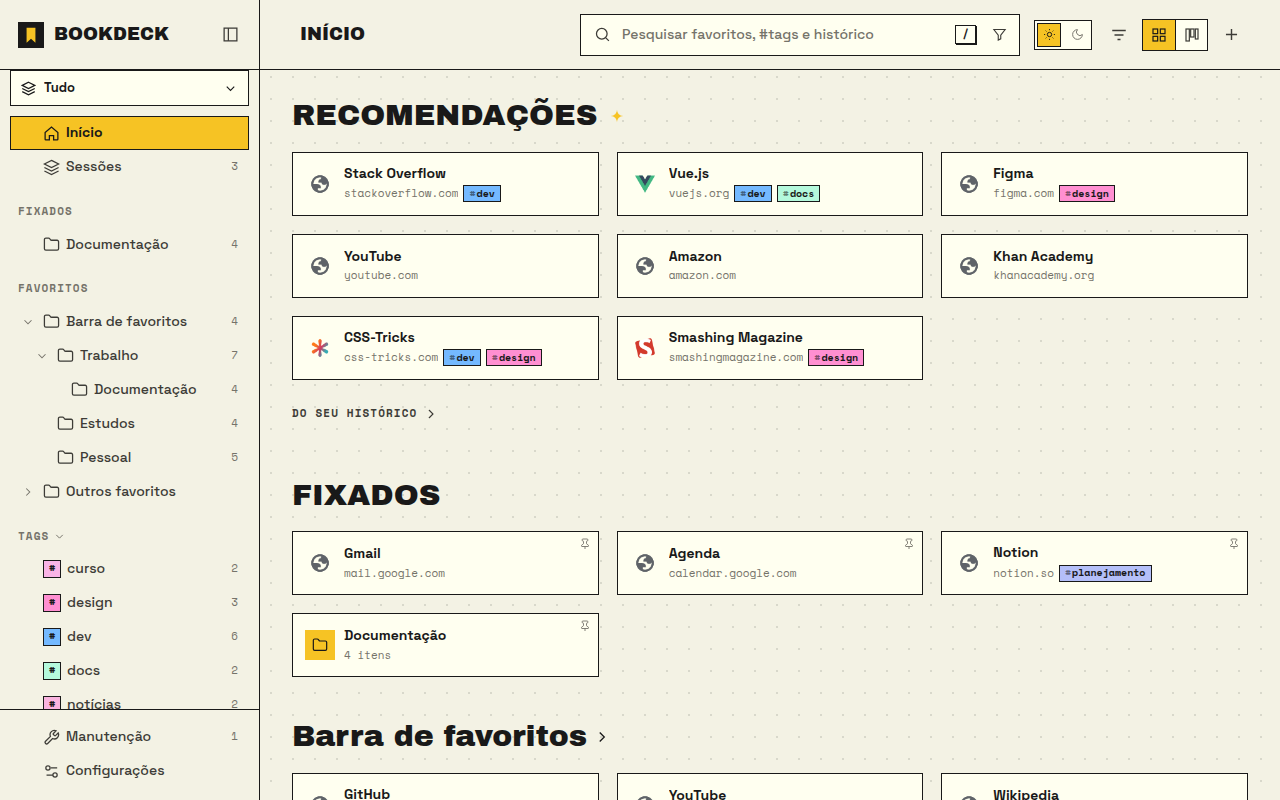
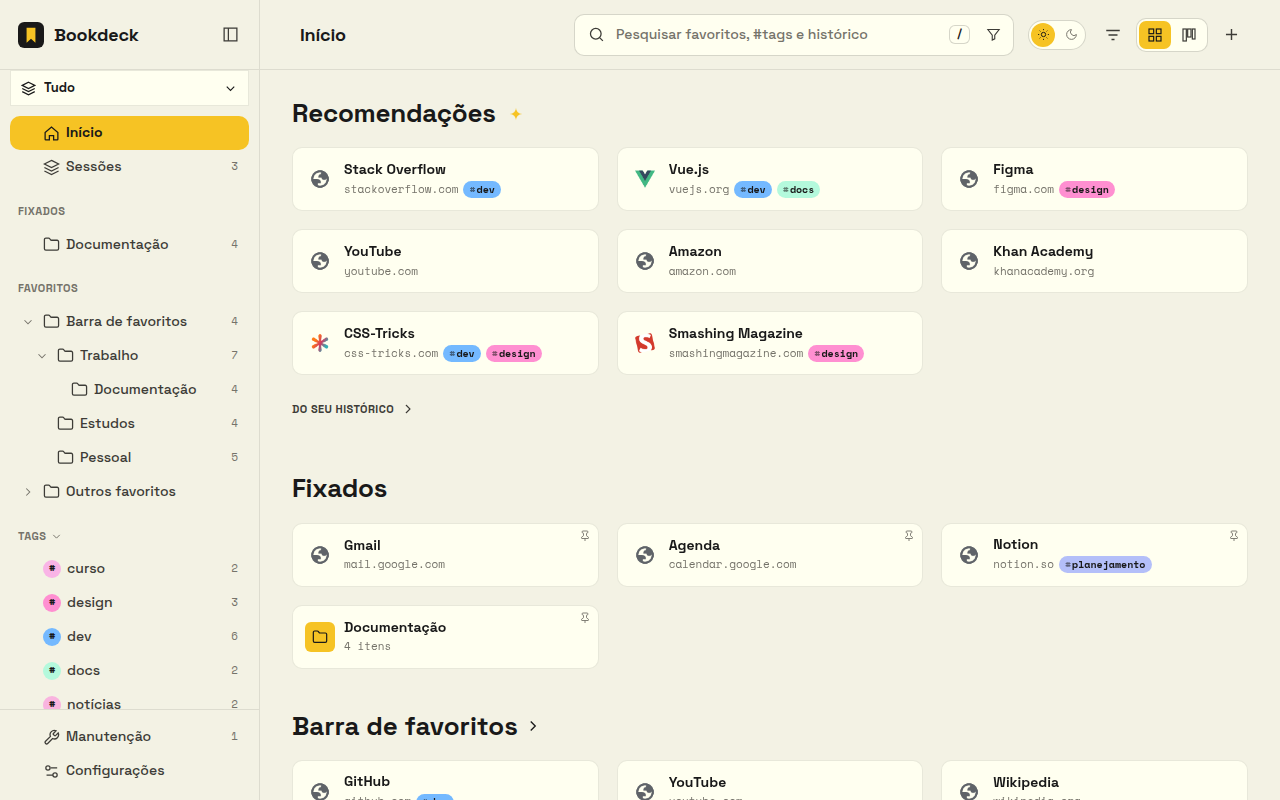
Describe Bookdeck Pro in the privacy policy and store listing
The policy explains the ExtensionPay/Stripe license check and that
bookmarks and browsing data still never leave the browser. The listing
adds the US$ 12 one-time Pro plan and its data disclosures, and the store
screenshots now use the free modern look, with Pro on for paid screens.

Claude-Session: https://claude.ai/code/session_01LuE7BvKGd75Ws2D3ZHVvKB

diff --git a/docs/privacy-policy.html b/docs/privacy-policy.html
@@ -20,7 +20,7 @@
 <main>
 <h1>Bookdeck – Privacy Policy</h1>
 <p><em>Last updated: November 12, 2026</em></p>
-<p><strong>Short version: Bookdeck does not collect, send or sell any of your data. Everything stays in your browser.</strong></p>
+<p><strong>Short version: Bookdeck does not collect, send or sell your bookmarks, history or any other browsing data. They stay in your browser. The only thing Bookdeck checks online is whether you have a Bookdeck Pro license.</strong></p>
 <h2>What Bookdeck accesses</h2>
 <p>To work, the extension reads and changes data <strong>inside your browser only</strong>:</p>
 <ul>
@@ -30,17 +30,25 @@
 <li><strong>Web search</strong>: when you choose “Search the web” in the search box, the text you typed is sent to your browser&#x27;s default search engine, just like a regular search. Bookdeck doesn&#x27;t send it anywhere else.</li>
 <li><strong>Website access (optional)</strong>: only if you start a broken-link check and allow it. Bookdeck then makes one request to each bookmarked address to see whether it still works. Requests are sent without cookies, and only the HTTP status and final address are read. Nothing is sent to anyone other than the sites you bookmarked.</li>
 </ul>
+<h2>Bookdeck Pro (paid plan)</h2>
+<p>Bookdeck is free, with an optional one-time payment (Bookdeck Pro) that unlocks extra features. Payments and licenses are handled by <strong>ExtensionPay</strong> (extensionpay.com), which processes payments through <strong>Stripe</strong>.</p>
+<ul>
+<li><strong>When you pay</strong>, you enter your email and payment details on ExtensionPay&#x27;s and Stripe&#x27;s own pages. Bookdeck never sees or stores your card details.</li>
+<li><strong>To know whether Pro is unlocked</strong>, the extension contacts extensionpay.com using a random identifier created for your installation. The reply only says whether this identifier has paid. If you buy Pro, ExtensionPay links this identifier to the email you paid with, so you can restore Pro on another computer.</li>
+<li><strong>Nothing else is sent</strong>: no bookmarks, history, tags, sessions, settings or pages you visit.</li>
+</ul>
+<p>ExtensionPay&#x27;s privacy policy: <a href="https://extensionpay.com/privacy">https://extensionpay.com/privacy</a>. Stripe&#x27;s: <a href="https://stripe.com/privacy">https://stripe.com/privacy</a>.</p>
 <h2>Where your data is stored</h2>
-<p>Settings, tags, pinned and hidden items, workspaces, sessions and last-visit dates are saved in the browser&#x27;s local extension storage on your computer. Bookdeck has no server and no account. Your data is not synced by Bookdeck to any cloud.</p>
+<p>Settings, tags, pinned and hidden items, workspaces, sessions, last-visit dates and your Pro license status are saved in the browser&#x27;s local extension storage on your computer. Bookdeck has no server of its own. Your bookmarks and settings are not synced by Bookdeck to any cloud.</p>
 <p>When you export a backup, a <code>.json</code> file is saved where you choose. It contains your bookmarks, tags, sessions, settings and last-visit dates; keep it somewhere safe.</p>
 <h2>What Bookdeck does not do</h2>
 <ul>
-<li>No analytics, tracking, advertising or third-party scripts.</li>
-<li>No data is sold, shared or transferred to third parties.</li>
+<li>No analytics, tracking or advertising.</li>
+<li>No data is sold. Nothing is shared with third parties except what the payment provider needs to process a Pro purchase and check the license, as described above.</li>
 <li>No remote code is loaded.</li>
 </ul>
 <h2>Removing your data</h2>
-<p>Uninstalling the extension deletes everything it stored. Your bookmarks themselves belong to the browser and are not removed.</p>
+<p>Uninstalling the extension deletes everything it stored on your computer. Your bookmarks themselves belong to the browser and are not removed. If you bought Pro, you can ask ExtensionPay to delete your purchase record.</p>
 <h2>Changes</h2>
 <p>If this policy changes, the new version will be published at this same address with a new date.</p>
 <h2>Contact</h2>
@@ -48,7 +56,7 @@
 <hr>
 <h1>Bookdeck – Política de Privacidade</h1>
 <p><em>Atualizada em 12 de novembro de 2026</em></p>
-<p><strong>Resumo: o Bookdeck não coleta, não envia e não vende nenhum dado seu. Tudo fica no seu navegador.</strong></p>
+<p><strong>Resumo: o Bookdeck não coleta, não envia e não vende seus favoritos, seu histórico nem nenhum outro dado de navegação. Eles ficam no seu navegador. A única coisa que o Bookdeck consulta pela internet é se você tem uma licença do Bookdeck Pro.</strong></p>
 <h2>O que o Bookdeck acessa</h2>
 <p>Para funcionar, a extensão lê e altera dados <strong>somente dentro do seu navegador</strong>:</p>
 <ul>
@@ -58,17 +66,25 @@
 <li><strong>Pesquisa na web</strong>: quando você escolhe “Pesquisar na web” na caixa de busca, o texto digitado vai para o mecanismo de busca padrão do seu navegador, como numa busca normal. O Bookdeck não o envia para nenhum outro lugar.</li>
 <li><strong>Acesso a sites (opcional)</strong>: só se você iniciar uma verificação de links quebrados e permitir. O Bookdeck faz uma requisição a cada endereço salvo para ver se ainda funciona, sem enviar cookies, lendo apenas o código HTTP e o endereço final. Nada é enviado a ninguém além dos próprios sites que você salvou.</li>
 </ul>
+<h2>Bookdeck Pro (plano pago)</h2>
+<p>O Bookdeck é grátis, com um pagamento único opcional (Bookdeck Pro) que libera recursos extras. Pagamentos e licenças ficam a cargo do <strong>ExtensionPay</strong> (extensionpay.com), que processa os pagamentos pelo <strong>Stripe</strong>.</p>
+<ul>
+<li><strong>Ao pagar</strong>, você informa seu e-mail e os dados de pagamento nas páginas do próprio ExtensionPay e do Stripe. O Bookdeck nunca vê nem guarda os dados do seu cartão.</li>
+<li><strong>Para saber se o Pro está liberado</strong>, a extensão consulta o extensionpay.com usando um identificador aleatório criado para a sua instalação. A resposta diz apenas se esse identificador pagou. Se você comprar o Pro, o ExtensionPay associa esse identificador ao e-mail usado no pagamento, para você poder recuperar o Pro em outro computador.</li>
+<li><strong>Nada mais é enviado</strong>: nenhum favorito, histórico, tag, sessão, configuração ou página visitada.</li>
+</ul>
+<p>Política de privacidade do ExtensionPay: <a href="https://extensionpay.com/privacy">https://extensionpay.com/privacy</a>. Do Stripe: <a href="https://stripe.com/privacy">https://stripe.com/privacy</a>.</p>
 <h2>Onde seus dados ficam</h2>
-<p>Configurações, tags, fixados, ocultos, workspaces, sessões e datas de visita ficam no armazenamento local da extensão, no seu computador. O Bookdeck não tem servidor nem conta e não sincroniza seus dados com nenhuma nuvem.</p>
+<p>Configurações, tags, fixados, ocultos, workspaces, sessões, datas de visita e o status da sua licença Pro ficam no armazenamento local da extensão, no seu computador. O Bookdeck não tem servidor próprio e não sincroniza seus favoritos nem suas configurações com nenhuma nuvem.</p>
 <p>Ao exportar um backup, um arquivo <code>.json</code> é salvo onde você escolher. Ele contém favoritos, tags, sessões, configurações e datas de visita; guarde-o em lugar seguro.</p>
 <h2>O que o Bookdeck não faz</h2>
 <ul>
-<li>Nada de estatísticas de uso, rastreamento, anúncios ou scripts de terceiros.</li>
-<li>Nenhum dado é vendido, compartilhado ou transferido a terceiros.</li>
+<li>Nada de estatísticas de uso, rastreamento ou anúncios.</li>
+<li>Nenhum dado é vendido. Nada é compartilhado com terceiros além do que o processador de pagamento precisa para concluir uma compra do Pro e verificar a licença, como descrito acima.</li>
 <li>Nenhum código é carregado de fora.</li>
 </ul>
 <h2>Como apagar seus dados</h2>
-<p>Desinstalar a extensão apaga tudo o que ela guardou. Seus favoritos pertencem ao navegador e não são removidos.</p>
+<p>Desinstalar a extensão apaga tudo o que ela guardou no seu computador. Seus favoritos pertencem ao navegador e não são removidos. Se você comprou o Pro, pode pedir ao ExtensionPay que apague o registro da compra.</p>
 <h2>Mudanças</h2>
 <p>Se esta política mudar, a nova versão será publicada neste mesmo endereço, com nova data.</p>
 <h2>Contato</h2>

diff --git a/scripts/store-assets.py b/scripts/store-assets.py
@@ -77,7 +77,7 @@ def setup(page, lang, ids):
             {'id': 'wlife', 'name': t['ws_life'], 'folders': [ids['personal'], ids['study']], 'accent': 'green', 'look': None}]
     meta = {'pinned': [ids['Gmail'], ids[t['cal']], ids['Notion'], ids['docs']], 'hidden': [], 'tags': tags, 'tagColors': colors,
             'workspaces': work, 'activeWs': None, 'seenVersion': '0.2.0', 'historyOpen': False, 'expanded': {'1': True, ids['work']: True}}
-    settings = {'lang': lang, 'theme': 'light', 'look': 'brutal', 'accent': 'yellow', 'style': 'card', 'layout': 'grid', 'width': 230}
+    settings = {'lang': lang, 'theme': 'light', 'look': 'modern', 'accent': 'yellow', 'style': 'card', 'layout': 'grid', 'width': 230}
     now = int(time.time() * 1000)
     g = lambda title, color: {'title': title, 'color': color}
     sessions = [
@@ -97,7 +97,9 @@ def setup(page, lang, ids):
             {'url': 'https://slack.com/', 'title': 'Slack'}, {'url': 'https://www.notion.so/', 'title': 'Notion'},
             {'url': 'https://trello.com/', 'title': 'Trello'}, {'url': 'https://calendar.google.com/', 'title': t['cal']}]},
     ]
-    page.evaluate("async (d) => { await chrome.storage.local.set(d) }", {'meta': meta, 'settings': settings, 'sessions': sessions})
+    # Pro on, so the paid screens (workspace looks, whole-library link check, cyberpunk) render without locks
+    license = {'pro': True, 'source': 'dev', 'since': now}
+    page.evaluate("async (d) => { await chrome.storage.local.set(d) }", {'meta': meta, 'settings': settings, 'sessions': sessions, 'license': license})
 
 def run_lang(p, lang):
     profile = os.path.join(TMP, 'profile-' + lang)

diff --git a/docs/store/listing.md b/docs/store/listing.md
@@ -13,11 +13,11 @@ also live in `public/_locales/*/messages.json` (max. 132 characters).
 **Nome:** Bookdeck
 
 **Descrição curta (132):**
-Nova guia para seus favoritos: tags, workspaces, sessões de abas, links quebrados e duplicados. Privado: nada sai do navegador.
+Nova guia para seus favoritos: tags, workspaces, sessões de abas, links quebrados e duplicados. Seus favoritos não saem do navegador.
 
 **Descrição detalhada:**
 
-Bookdeck transforma a nova guia num painel dos seus favoritos. Tudo o que você salvou fica à mão, organizado do seu jeito e sem nenhuma conta ou servidor.
+Bookdeck transforma a nova guia num painel dos seus favoritos. Tudo o que você salvou fica à mão, organizado do seu jeito, sem criar conta e sem servidor guardando seus favoritos.
 
 ★ ORGANIZE
 • Pastas em grade ou em colunas, em cartões, compacto ou só ícones
@@ -26,21 +26,29 @@ Bookdeck transforma a nova guia num painel dos seus favoritos. Tudo o que você 
 • Fixe favoritos e pastas, oculte o que não quer ver, arraste para reorganizar
 
 ★ WORKSPACES E SESSÕES
-• Workspaces: separe “Trabalho”, “Pessoal” e “Estudos”, cada um com suas pastas, cor e visual. Troque com Alt+1, Alt+2…
+• Workspaces: separe “Trabalho” e “Pessoal”, cada um com suas pastas. Troque com Alt+1, Alt+2…
 • Sessões: salve todas as abas de uma janela com um nome, inclusive grupos de abas e abas fixadas, e reabra tudo depois. Pode fechar as abas ao salvar para liberar memória.
 
 ★ MANUTENÇÃO
-• Links quebrados: encontra páginas que sumiram, sites fora do ar e endereços que mudaram, com atualização em um clique
+• Links quebrados: encontra páginas que sumiram, sites fora do ar e endereços que mudaram, pasta por pasta
 • Duplicados: acha a mesma página salva várias vezes, mesmo com endereços um pouco diferentes
-• Parados: mostra o que você não abre há 3, 6 ou 12 meses
 • Seleção em massa: mova, marque, oculte ou exclua vários favoritos de uma vez, sempre com “Desfazer”
 
+★ BOOKDECK PRO: US$ 12, PAGAMENTO ÚNICO
+Tudo acima é grátis, sem prazo. O Pro libera, para sempre:
+• Workspaces e sessões ilimitados (o grátis tem 2 workspaces e 3 sessões)
+• Cor e visual próprios para cada workspace
+• Visuais brutal e cyberpunk
+• Busca avançada por tags: todas, qualquer, nenhuma ou somente estas
+• Verificação de links da biblioteca inteira e correção em lote de links e duplicados
+• Favoritos parados: o que você não abre há 3, 6 ou 12 meses
+
 ★ PRIVADO DE VERDADE
-• Sem conta, sem servidor, sem anúncios, sem rastreamento
-• Seus dados ficam no armazenamento local do navegador
+• Sem conta, sem anúncios, sem rastreamento
+• Seus favoritos, tags e sessões ficam no armazenamento local do navegador. Só o status da licença Pro é consultado
 • Backup em arquivo .json: leve favoritos, tags, sessões e configurações para outro computador
 
-Visuais brutal, moderno e cyberpunk, tema claro e escuro, cinco cores de destaque. Funciona no Chrome, Brave e Edge.
+Visual moderno, tema claro e escuro, cinco cores de destaque. Funciona no Chrome, Brave e Edge.
 
 ---
 
@@ -49,11 +57,11 @@ Visuais brutal, moderno e cyberpunk, tema claro e escuro, cinco cores de destaqu
 **Name:** Bookdeck
 
 **Short description (132):**
-A new tab for your bookmarks: tags, workspaces, tab sessions, broken links and duplicates. Private: nothing leaves your browser.
+A new tab for your bookmarks: tags, workspaces, tab sessions, broken links and duplicates. Your bookmarks never leave your browser.
 
 **Detailed description:**
 
-Bookdeck turns the new tab into a dashboard for your bookmarks. Everything you saved is at hand, organized your way, with no account and no server.
+Bookdeck turns the new tab into a dashboard for your bookmarks. Everything you saved is at hand, organized your way, with no sign-up and no server holding your bookmarks.
 
 ★ ORGANIZE
 • Folders in a grid or in columns, as cards, compact rows or icons only
@@ -62,21 +70,29 @@ Bookdeck turns the new tab into a dashboard for your bookmarks. Everything you s
 • Pin bookmarks and folders, hide what you don't want to see, drag to rearrange
 
 ★ WORKSPACES AND SESSIONS
-• Workspaces: split “Work”, “Personal” and “Study”, each with its own folders, color and look. Switch with Alt+1, Alt+2…
+• Workspaces: split “Work” and “Personal”, each with its own folders. Switch with Alt+1, Alt+2…
 • Sessions: save every tab of a window under a name, including tab groups and pinned tabs, and reopen them all later. Optionally close the tabs when saving to free memory.
 
 ★ MAINTENANCE
-• Broken links: finds pages that are gone, sites that are down and addresses that moved, with one-click updates
+• Broken links: finds pages that are gone, sites that are down and addresses that moved, folder by folder
 • Duplicates: finds the same page saved more than once, even with slightly different addresses
-• Unused: shows what you haven't opened in 3, 6 or 12 months
 • Bulk selection: move, tag, hide or delete many bookmarks at once, always with Undo
 
+★ BOOKDECK PRO: US$ 12, ONE-TIME PAYMENT
+Everything above is free, with no time limit. Pro unlocks, for good:
+• Unlimited workspaces and sessions (the free plan has 2 workspaces and 3 sessions)
+• A color and look of its own for each workspace
+• Brutal and cyberpunk looks
+• Advanced tag search: all, any, none or only these
+• Link checks across your whole library, and bulk fixes for links and duplicates
+• Unused bookmarks: what you haven't opened in 3, 6 or 12 months
+
 ★ TRULY PRIVATE
-• No account, no server, no ads, no tracking
-• Your data stays in the browser's local storage
+• No sign-up, no ads, no tracking
+• Your bookmarks, tags and sessions stay in the browser's local storage. Only the Pro license status is checked
 • Backup to a .json file: take bookmarks, tags, sessions and settings to another computer
 
-Brutal, modern and cyberpunk looks, light and dark themes, five accent colors. Works in Chrome, Brave and Edge.
+Modern look, light and dark themes, five accent colors. Works in Chrome, Brave and Edge.
 
 ---
 
@@ -89,17 +105,25 @@ Brutal, modern and cyberpunk looks, light and dark themes, five accent colors. W
 | Permission | Why it is needed |
 |---|---|
 | `bookmarks` | Show, create, edit, move and delete the user's bookmarks: the core of the extension. |
-| `storage` | Save settings, tags, pinned/hidden items, workspaces, sessions and last-visit dates locally. |
+| `storage` | Save settings, tags, pinned/hidden items, workspaces, sessions, last-visit dates and the Pro license status locally. |
 | `history` | Suggest frequently used bookmarks and pages, search history from the search box, and tell which bookmarks haven't been opened in months. Read locally only. |
 | `tabs` | Open bookmarks in new tabs/windows, read the current tab in the popup to save it, and save/restore the tabs of a window as a session. |
 | `tabGroups` | Keep tab group names and colors when saving and reopening a session. |
 | `favicon` | Show each bookmark's site icon from the browser's own favicon cache. |
 | `search` | “Search the web” from the search box using the user's default search engine. |
 | Optional host access (`<all_urls>`) | Requested only when the user starts a broken-link check: one request per bookmarked URL to read its HTTP status. Without it nothing is fetched. |
+| Host access `https://extensionpay.com/*` | Bookdeck Pro: open the payment page and check whether the user has paid. Only a random install identifier is sent; no browsing data. _(Added to the manifest together with the ExtensionPay integration.)_ |
 
 **Remote code:** No. All code is bundled in the package.
 
-**Data usage:** The extension does not collect or transmit any user data. Check none of the data-type boxes; certify that data is not sold, not used for unrelated purposes and not used for creditworthiness.
+**Data usage:** Bookmarks, history, tabs and settings are never collected or transmitted. The only data that leaves the browser belongs to a Bookdeck Pro purchase, handled by ExtensionPay/Stripe. Check:
+
+- **Personally identifiable information**: the email the user enters when buying Pro (kept by ExtensionPay to restore the license).
+- **Financial and payment information**: card details entered on the Stripe checkout page (Bookdeck never receives them).
+
+Leave every other box unchecked; certify that data is not sold, not used for unrelated purposes and not used for creditworthiness.
+
+**Pricing / in-app purchases:** the extension is free to install, with an optional one-time in-app purchase (Bookdeck Pro, US$ 12). Mention it in the description, as above.
 
 **Privacy policy URL:** host `docs/privacy-policy.html` (standalone page) anywhere public and paste its URL.
 

diff --git a/docs/privacy-policy.md b/docs/privacy-policy.md
@@ -2,7 +2,7 @@
 
 _Last updated: November 12, 2026_
 
-**Short version: Bookdeck does not collect, send or sell any of your data. Everything stays in your browser.**
+**Short version: Bookdeck does not collect, send or sell your bookmarks, history or any other browsing data. They stay in your browser. The only thing Bookdeck checks online is whether you have a Bookdeck Pro license.**
 
 ## What Bookdeck accesses
 
@@ -14,21 +14,31 @@ To work, the extension reads and changes data **inside your browser only**:
 - **Web search**: when you choose “Search the web” in the search box, the text you typed is sent to your browser's default search engine, just like a regular search. Bookdeck doesn't send it anywhere else.
 - **Website access (optional)**: only if you start a broken-link check and allow it. Bookdeck then makes one request to each bookmarked address to see whether it still works. Requests are sent without cookies, and only the HTTP status and final address are read. Nothing is sent to anyone other than the sites you bookmarked.
 
+## Bookdeck Pro (paid plan)
+
+Bookdeck is free, with an optional one-time payment (Bookdeck Pro) that unlocks extra features. Payments and licenses are handled by **ExtensionPay** (extensionpay.com), which processes payments through **Stripe**.
+
+- **When you pay**, you enter your email and payment details on ExtensionPay's and Stripe's own pages. Bookdeck never sees or stores your card details.
+- **To know whether Pro is unlocked**, the extension contacts extensionpay.com using a random identifier created for your installation. The reply only says whether this identifier has paid. If you buy Pro, ExtensionPay links this identifier to the email you paid with, so you can restore Pro on another computer.
+- **Nothing else is sent**: no bookmarks, history, tags, sessions, settings or pages you visit.
+
+ExtensionPay's privacy policy: https://extensionpay.com/privacy. Stripe's: https://stripe.com/privacy.
+
 ## Where your data is stored
 
-Settings, tags, pinned and hidden items, workspaces, sessions and last-visit dates are saved in the browser's local extension storage on your computer. Bookdeck has no server and no account. Your data is not synced by Bookdeck to any cloud.
+Settings, tags, pinned and hidden items, workspaces, sessions, last-visit dates and your Pro license status are saved in the browser's local extension storage on your computer. Bookdeck has no server of its own. Your bookmarks and settings are not synced by Bookdeck to any cloud.
 
 When you export a backup, a `.json` file is saved where you choose. It contains your bookmarks, tags, sessions, settings and last-visit dates; keep it somewhere safe.
 
 ## What Bookdeck does not do
 
-- No analytics, tracking, advertising or third-party scripts.
-- No data is sold, shared or transferred to third parties.
+- No analytics, tracking or advertising.
+- No data is sold. Nothing is shared with third parties except what the payment provider needs to process a Pro purchase and check the license, as described above.
 - No remote code is loaded.
 
 ## Removing your data
 
-Uninstalling the extension deletes everything it stored. Your bookmarks themselves belong to the browser and are not removed.
+Uninstalling the extension deletes everything it stored on your computer. Your bookmarks themselves belong to the browser and are not removed. If you bought Pro, you can ask ExtensionPay to delete your purchase record.
 
 ## Changes
 
@@ -44,7 +54,7 @@ Questions: open an issue in the project repository.
 
 _Atualizada em 12 de novembro de 2026_
 
-**Resumo: o Bookdeck não coleta, não envia e não vende nenhum dado seu. Tudo fica no seu navegador.**
+**Resumo: o Bookdeck não coleta, não envia e não vende seus favoritos, seu histórico nem nenhum outro dado de navegação. Eles ficam no seu navegador. A única coisa que o Bookdeck consulta pela internet é se você tem uma licença do Bookdeck Pro.**
 
 ## O que o Bookdeck acessa
 
@@ -56,21 +66,31 @@ Para funcionar, a extensão lê e altera dados **somente dentro do seu navegador
 - **Pesquisa na web**: quando você escolhe “Pesquisar na web” na caixa de busca, o texto digitado vai para o mecanismo de busca padrão do seu navegador, como numa busca normal. O Bookdeck não o envia para nenhum outro lugar.
 - **Acesso a sites (opcional)**: só se você iniciar uma verificação de links quebrados e permitir. O Bookdeck faz uma requisição a cada endereço salvo para ver se ainda funciona, sem enviar cookies, lendo apenas o código HTTP e o endereço final. Nada é enviado a ninguém além dos próprios sites que você salvou.
 
+## Bookdeck Pro (plano pago)
+
+O Bookdeck é grátis, com um pagamento único opcional (Bookdeck Pro) que libera recursos extras. Pagamentos e licenças ficam a cargo do **ExtensionPay** (extensionpay.com), que processa os pagamentos pelo **Stripe**.
+
+- **Ao pagar**, você informa seu e-mail e os dados de pagamento nas páginas do próprio ExtensionPay e do Stripe. O Bookdeck nunca vê nem guarda os dados do seu cartão.
+- **Para saber se o Pro está liberado**, a extensão consulta o extensionpay.com usando um identificador aleatório criado para a sua instalação. A resposta diz apenas se esse identificador pagou. Se você comprar o Pro, o ExtensionPay associa esse identificador ao e-mail usado no pagamento, para você poder recuperar o Pro em outro computador.
+- **Nada mais é enviado**: nenhum favorito, histórico, tag, sessão, configuração ou página visitada.
+
+Política de privacidade do ExtensionPay: https://extensionpay.com/privacy. Do Stripe: https://stripe.com/privacy.
+
 ## Onde seus dados ficam
 
-Configurações, tags, fixados, ocultos, workspaces, sessões e datas de visita ficam no armazenamento local da extensão, no seu computador. O Bookdeck não tem servidor nem conta e não sincroniza seus dados com nenhuma nuvem.
+Configurações, tags, fixados, ocultos, workspaces, sessões, datas de visita e o status da sua licença Pro ficam no armazenamento local da extensão, no seu computador. O Bookdeck não tem servidor próprio e não sincroniza seus favoritos nem suas configurações com nenhuma nuvem.
 
 Ao exportar um backup, um arquivo `.json` é salvo onde você escolher. Ele contém favoritos, tags, sessões, configurações e datas de visita; guarde-o em lugar seguro.
 
 ## O que o Bookdeck não faz
 
-- Nada de estatísticas de uso, rastreamento, anúncios ou scripts de terceiros.
-- Nenhum dado é vendido, compartilhado ou transferido a terceiros.
+- Nada de estatísticas de uso, rastreamento ou anúncios.
+- Nenhum dado é vendido. Nada é compartilhado com terceiros além do que o processador de pagamento precisa para concluir uma compra do Pro e verificar a licença, como descrito acima.
 - Nenhum código é carregado de fora.
 
 ## Como apagar seus dados
 
-Desinstalar a extensão apaga tudo o que ela guardou. Seus favoritos pertencem ao navegador e não são removidos.
+Desinstalar a extensão apaga tudo o que ela guardou no seu computador. Seus favoritos pertencem ao navegador e não são removidos. Se você comprou o Pro, pode pedir ao ExtensionPay que apague o registro da compra.
 
 ## Mudanças
 

diff --git a/README.md b/README.md
@@ -26,6 +26,10 @@ Se outra extensão também substituir a nova guia (ex.: Markoob), desative-a enq
 - **Seleção em massa**: mover, marcar, ocultar e excluir vários favoritos, com desfazer
 - **Backup** em `.json` (Configurações → Backup)
 
+### Grátis × Pro (US$ 12, pagamento único)
+
+O plano grátis tem até 2 workspaces, 3 sessões e o visual moderno. O **Pro** libera workspaces e sessões ilimitados, cor/visual por workspace, os visuais brutal e cyberpunk, busca avançada por tags, favoritos parados, verificação de links da biblioteca inteira e correção em lote. Limites e licença: `src/shared/premium.js`. Em instalações sem compactação, o diálogo do Pro tem o botão **Ativar Pro (teste)**.
+
 ## Testes
 
 ```bash
@@ -52,4 +56,4 @@ Passo a passo: `docs/store/PUBLISHING.md`. Textos da loja e permissões: `docs/s
 - `docs/`: textos da loja e política de privacidade
 - `scripts/make-icons.mjs`: gera os PNGs de `public/icons/`
 
-Configurações, tags, fixados, ocultos, workspaces, sessões e datas de uso ficam em `chrome.storage.local`. Nenhum dado sai do navegador (a verificação de links só acessa os próprios endereços salvos, e só com permissão).
+Configurações, tags, fixados, ocultos, workspaces, sessões e datas de uso ficam em `chrome.storage.local`. Nenhum favorito ou dado de navegação sai do navegador (a verificação de links só acessa os próprios endereços salvos, e só com permissão). A única consulta externa é o status da licença Pro.
